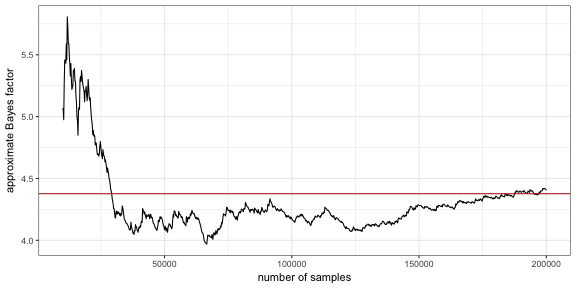
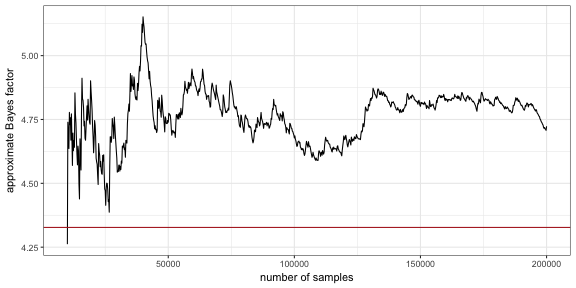
code for post added

diff --git a/_posts/2017-07-07-BF_computation.md b/_posts/2017-07-07-BF_computation.md
@@ -242,7 +242,7 @@ paste0("Approximate BF in favor of complex model (Savage-Dickey): ",
 
 
 {% highlight text %}
-## [1] "Approximate BF in favor of complex model (Savage-Dickey): 4.377"
+## [1] "Approximate BF in favor of complex model (Savage-Dickey): 4.327"
 {% endhighlight %}
  
 In sum, the Savage-Dickey method is an elegant and practical method for computing (or approximating, if based on sampling) Bayes factors for properly nested models. It is particularly useful when the nested model fixes just a small number of parameters that are free in the nesting model. The method needs to go through two bottlenecks that can introduce imprecision in an estimate: first, we may have to rely on posterior samples; second, we may have to rely an numerical approximation of a point-density from the samples.
@@ -347,7 +347,7 @@ paste0("Approximate BF in favor of complex model (naive MC): ",
 
 
 {% highlight text %}
-## [1] "Approximate BF in favor of complex model (naive MC): 4.451"
+## [1] "Approximate BF in favor of complex model (naive MC): 4.599"
 {% endhighlight %}
  
 It is diagnostic to see the temporal development of the Bayes factor approximation as more and more samples are taken. This is plotted here, comparing it also to the result from the Savage-Dickey method (the red line).
@@ -371,7 +371,7 @@ ggplot(data.frame(i = seq(10000,nSamples, by = 200),
  
 ### Transdimensional MCMC
  
-A straightforward method for approximating posterior model odds is transdimensional MCMC. We consider the posterior over a binary model flag parameter $$m \in {0,1}$$ which helps represent our prior and posterior beliefs about which of models $$M_0$$ and $$M_1$$ is true. We look at a single encompassing model that contains both models that are to be compared. The likelihood function of the encompassing model is switched between that of $$M_0$$ or $$M_1$$ depending on the current value of $$m$$. A JAGS model that implements such an encompassing model is in the file `GCM_3_BF_transdimensional.txt` and reproduced here:
+A straightforward method for approximating posterior model odds is transdimensional MCMC. We consider the posterior over a binary model flag parameter $$m \in \{0,1\}$$ which helps represent our prior and posterior beliefs about which of models $$M_0$$ and $$M_1$$ is true. We look at a single encompassing model that contains both models that are to be compared. The likelihood function of the encompassing model is switched between that of $$M_0$$ or $$M_1$$ depending on the current value of $$m$$. A JAGS model that implements such an encompassing model is in the file `GCM_3_BF_transdimensional.txt` and reproduced here:
  
 
 {% highlight r %}
@@ -380,7 +380,8 @@ model{
   # Decision Data
   for (i in 1:nstim){
     y[i] ~ dbin(r[i],t)
-    r[i] = ifelse(m == 0, r1[i], r2[i]) # which likelihood to use depends on model flag
+    r[i] = ifelse(m == 0, r1[i], r2[i]) # which likelihood to 
+                                        # use depends on model flag
   }  
   # Decision Probabilities
   for (i in 1:nstim){
@@ -454,16 +455,16 @@ paste0("BF in favor of complex model (transcendental): ",
 
 
 {% highlight text %}
-## [1] "BF in favor of complex model (transcendental): 5.01"
+## [1] "BF in favor of complex model (transcendental): 5.258"
 {% endhighlight %}
  
 This method of estimation can be imprecise, especially when one model is much better than another. The intuitive reason is that whenever the MCMC chain sets $$m=i$$, the parameters for model $$j$$ are free to meander wherever they like. This, in turn, makes it less likely that a proposal with $$m=j$$ is accepted. One possible solution to this is to use so-called pseudo-priors: set the priors for parameters of model $$j$$ to some function that resembles their posterior distribution when $$m=i$$, but use the actual priors when $$m=j$$.
  
 ### Supermodels
  
-A method similar to the previous promises to get around this problem, at least when the models' marginal likelihoods are not too different. Instead of a model flag, which determines which model's likelihood function to use, we instead combine the model's likelihoods in a linear way. Concretely, given parameter vector $$\theta_i$$ and $$\theta_j$$ for models $$M_i$$ and $$M_j$$ respectively, we look at a model which contains both $$M_i$$ and $$M_j$$ and which has as the likelihood function of the data:
+A method similar to the previous promises to get around this problem, at least when the models' marginal likelihoods are not too different. I will refer to this approach as 'supermodels' here, taking inspiration from [this tutorial paper](https://arxiv.org/abs/1609.02186). Instead of a model flag, which determines which model's likelihood function to use, we instead combine the model's likelihoods in a linear way. Concretely, given parameter vectors $$\theta_i$$ and $$\theta_j$$ for models $$M_i$$ and $$M_j$$ respectively, we look at a model which contains both $$M_i$$ and $$M_j$$ and which has as the likelihood function of the data:
  
-$$ P(D \mid \alpha, \theta_i, \theta_j) = \alpha P(D \mid \theta_i, M_i ) + (1- \alpha) P(D \mid \theta_j, M_j) $$ 
+$$ P(D \mid \alpha, \theta_i, \theta_j) = \alpha P(D \mid \theta_i, M_i ) + (1- \alpha) P(D \mid \theta_j, M_j) \,. $$ 
  
 It is easy to show that for a flat prior $$\alpha \sim \text{Beta}(1,1)$$, the posterior of $$\alpha$$ is linear:
 $$
@@ -477,7 +478,7 @@ P(\alpha \mid D) & \propto \int \int P(\alpha) \ P(\theta_i \mid M_i) \ P(\theta
 \end{align*}
 $$
  
-Since the posterior of $$\alpha$$ is a distribution which satisfies $$ \int P(\alpha \mid D) \ \text{d} \alpha = 1$$, we get that $$m = 2 - 2c$$. Since each model nested under the supermodel as a special case of $$\alpha = 0$$ or $$\alpha = 1$$ we can use the Savage-Dickey method to express the posterior of $$\alpha$$ as a function of $$c$$ only:
+Since the posterior of $$\alpha$$ is a distribution which satisfies $$ \int P(\alpha \mid D) \ \text{d} \alpha = 1$$, we get that $$m = 2 - 2c$$. Since each model nested under the supermodel is a special case of either $$\alpha = 0$$ or $$\alpha = 1$$ we can use the Savage-Dickey method to express the posterior of $$\alpha$$ as a function of $$c$$ only:
  
  
 $$
@@ -597,7 +598,7 @@ paste0("BF in favor of complex model (supermodels): ",
 
 
 {% highlight text %}
-## [1] "BF in favor of complex model (supermodels): 4.46"
+## [1] "BF in favor of complex model (supermodels): 4.716"
 {% endhighlight %}
  
  

diff --git a/_posts/2017-02-27-CorrelationMultinomial.md b/_posts/2017-02-27-CorrelationMultinomial.md
@@ -121,7 +121,7 @@ show(qplot(pred, obs) + ylab("observation") + xlab('prediction'))
 ![plot of chunk unnamed-chunk-5](/mfpics/2017-02-27-CorrelationMultinomial.Rmd/unnamed-chunk-5-1.png)
  
  
-The correlation score of 0.9708 is very high (and immensely significant). We are heading towards a publication here!
+The correlation score of 0.9717 is very high (and immensely significant). We are heading towards a publication here!
  
 But wait a minute. Actually, half of our prediction values are superfluous in a sense. If we predict choice probability $$p$$ for one option, the model must predict $$1-p$$ for the other, of course. Similarly if the observed choice frequency of one option is $$f$$, that of the other must be $$1-f$$. So what happens if we scrap the redundant part of our data? Let's grab the predictions and frequencies for only one of the two options:
  
@@ -134,7 +134,7 @@ show(qplot(predInd, obsInd) + ylab("observation") + xlab('prediction'))
 
 ![plot of chunk unnamed-chunk-6](/mfpics/2017-02-27-CorrelationMultinomial.Rmd/unnamed-chunk-6-1.png)
  
-That doesn't look like a tremendous achievement anymore and, indeed, the correlation score is a poor man's -0.1959. 
+That doesn't look like a tremendous achievement anymore and, indeed, the correlation score is a poor man's 0.166. 
  
 Bottomline: if we look at what the model predicts for both choice options, we get a very high correlation. But predictions and observations for one choice option fully determine the other, so this part of the information seems entirely redundant. Yet, if we leave it out, our measure of glory plummets. What to make of this?
  
